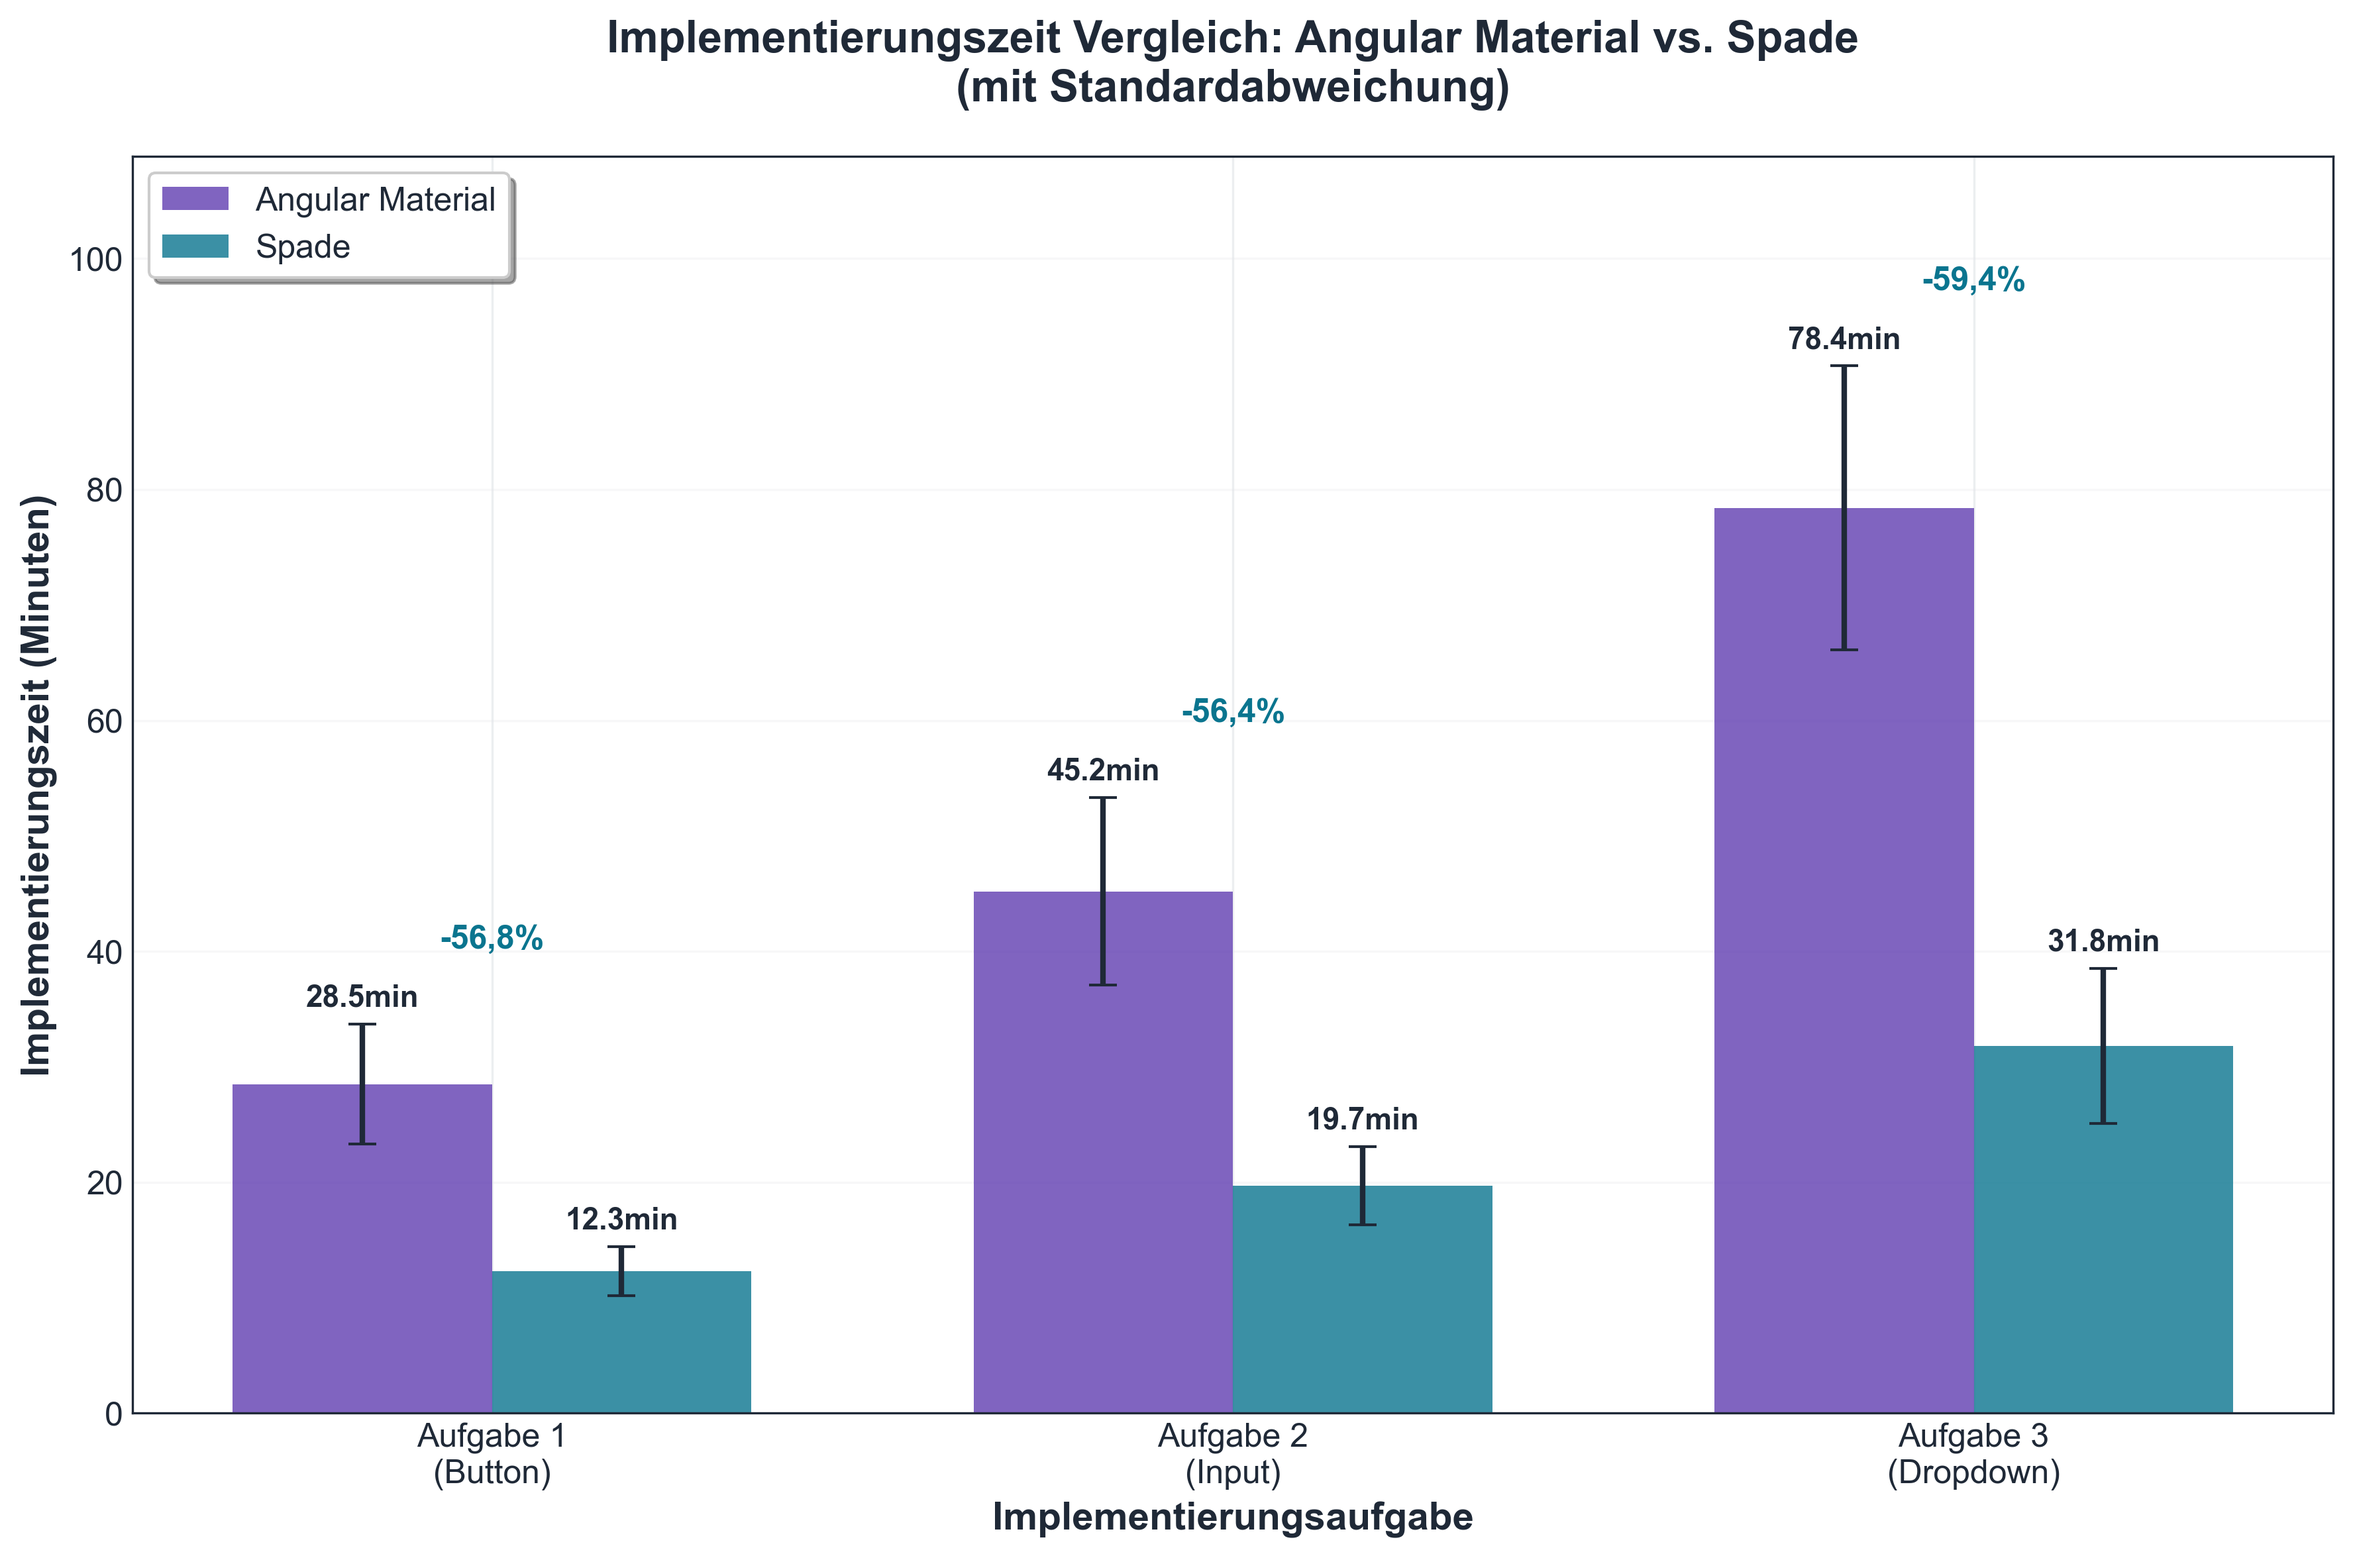
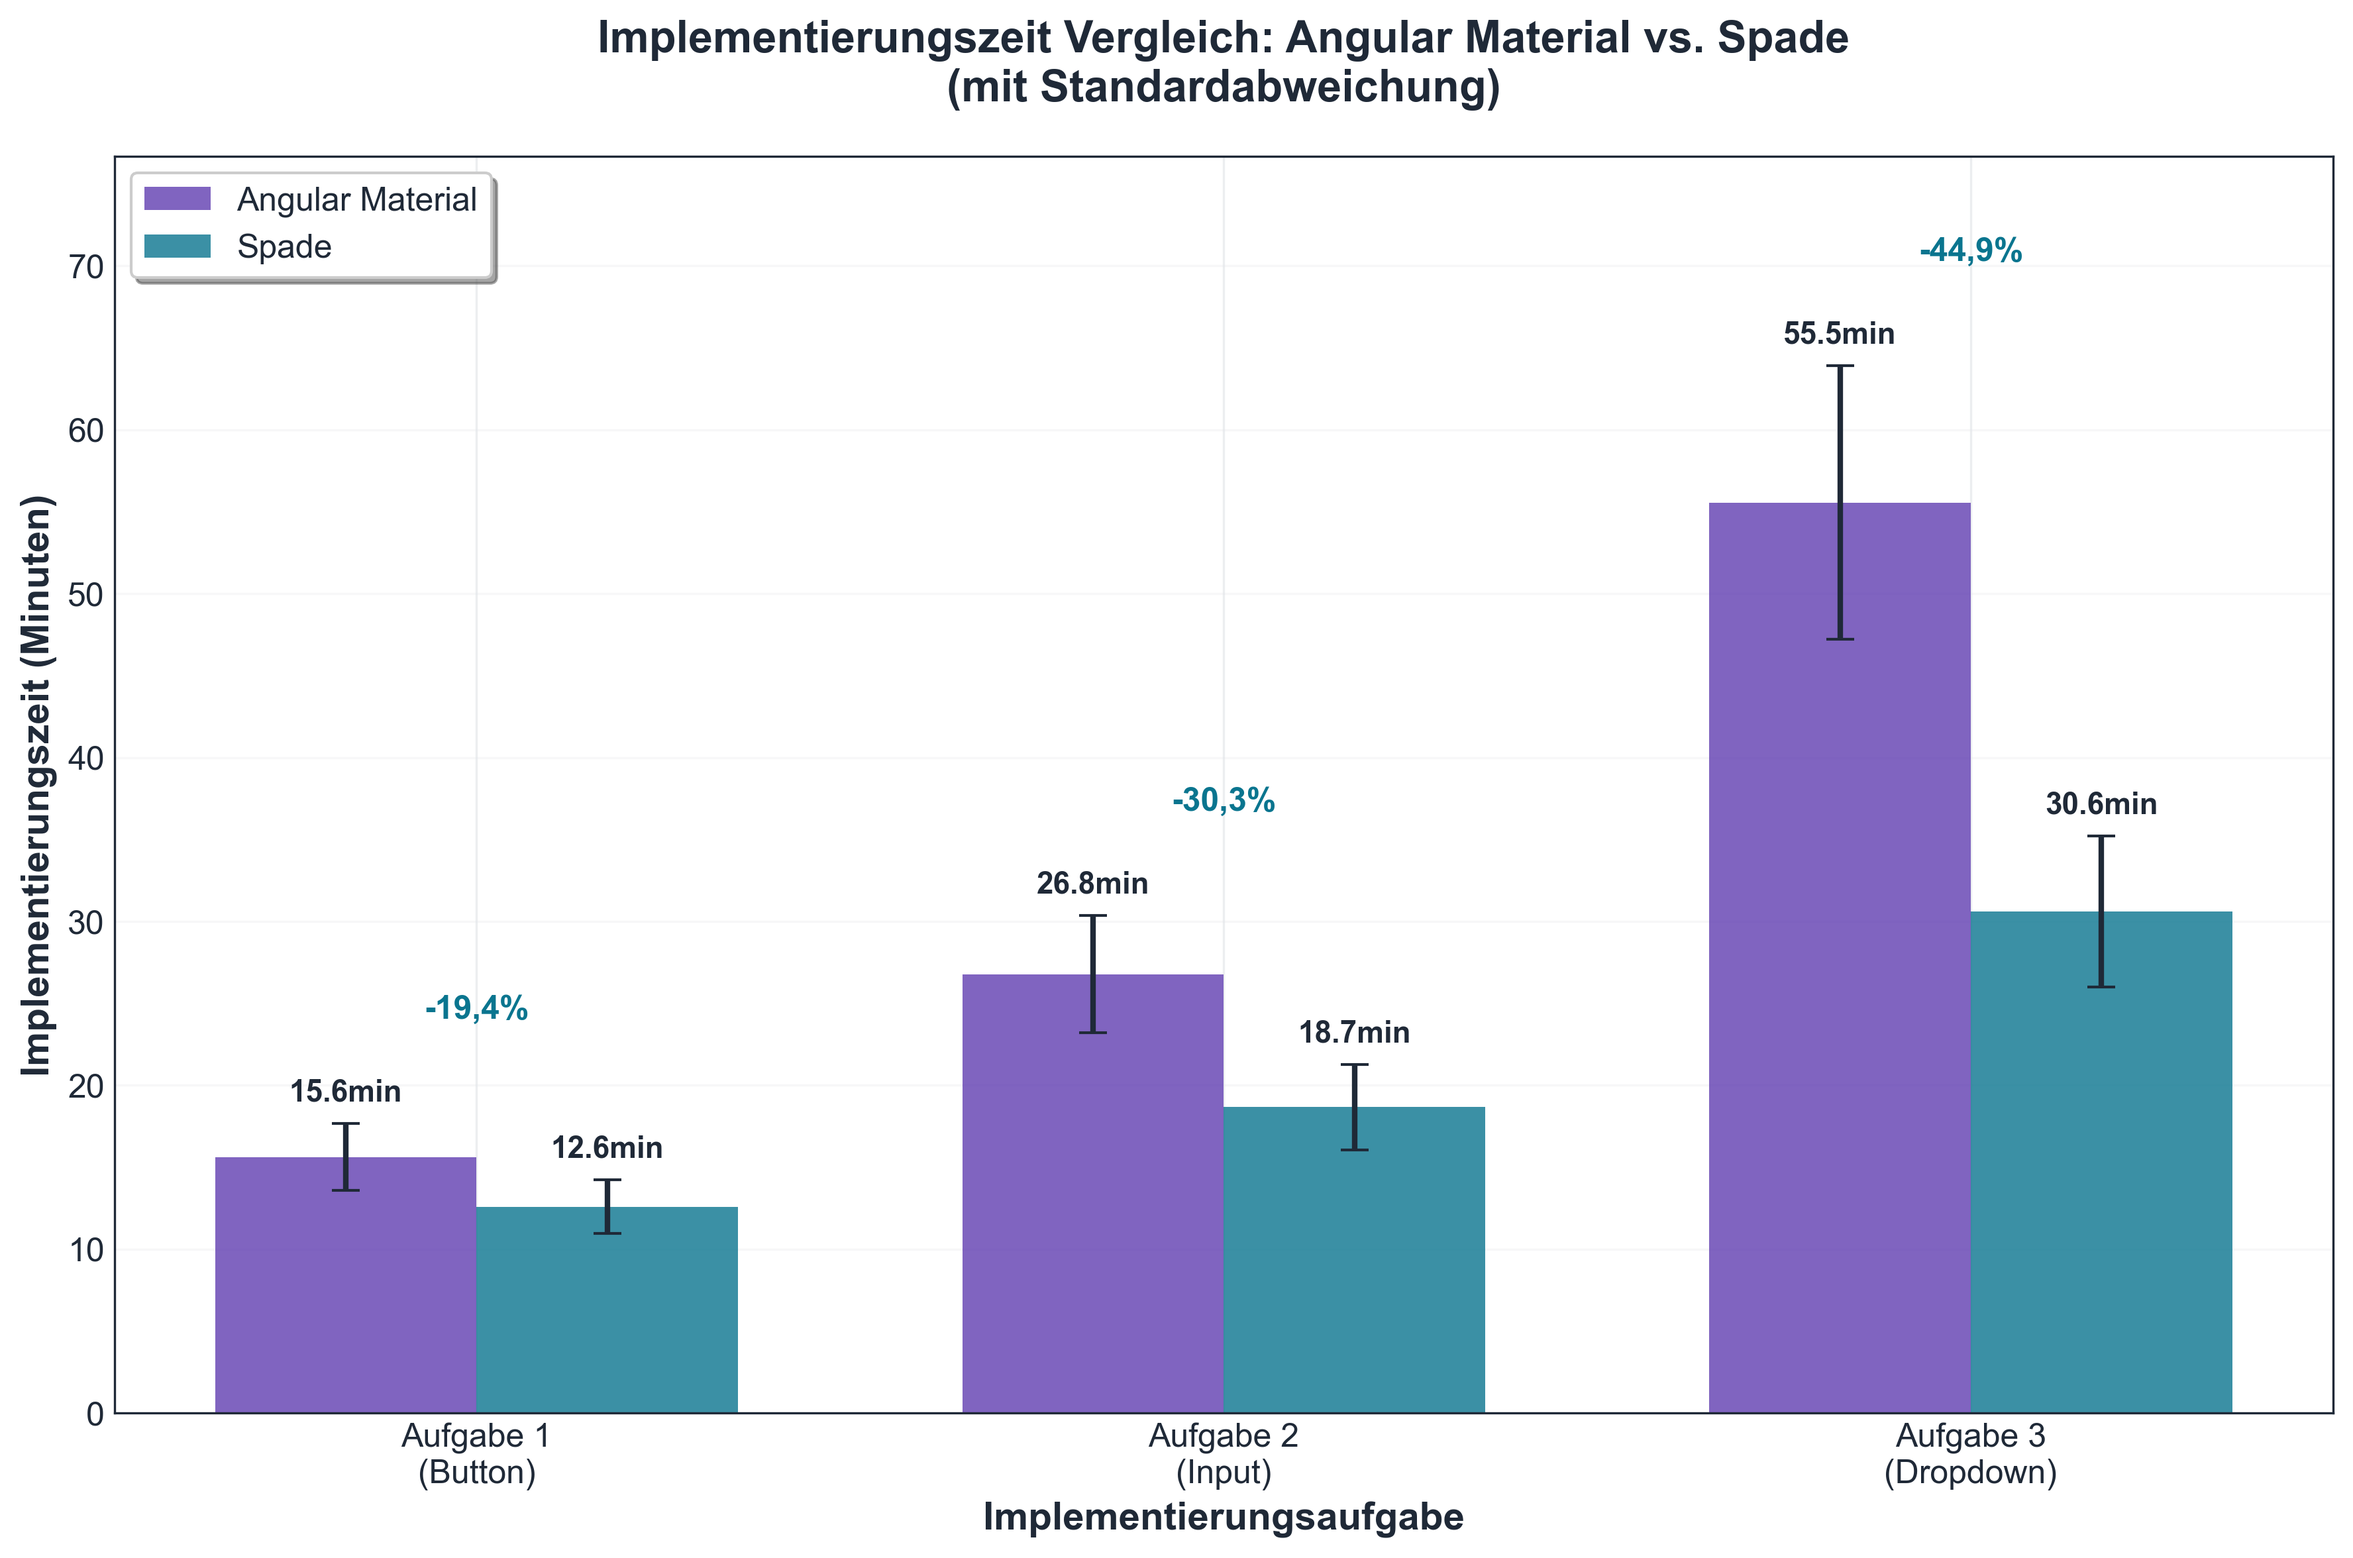
refinements

diff --git a/eval/dev_ex.py b/eval/dev_ex.py
@@ -61,7 +61,7 @@ def setup_matplotlib():
 def create_test_data():
     """Generate test data for development and testing"""
 
-    # Lines of Code data (corrected: Angular Material only has Wrapper & Overrides/additions)
+    # Lines of Code data (randomized decimals added)
     loc_data = {
         "Task": ["Button", "Input", "Dropdown"] * 3,
         "Library": ["Angular Material"] * 3 + ["Spade"] * 6,
@@ -70,27 +70,27 @@ def create_test_data():
         + ["Code Additions"] * 3,
         "Lines": [
             # Angular Material - Only Wrapper & Overrides (no access to source code)
-            65,
-            89,
-            142,
+            25.82,
+            41.1,
+            80.77,
             # Spade - Code Changes (direct modifications to copied code)
-            12,
-            18,
-            34,
+            4.19,
+            2.23,
+            39.21,
             # Spade - Code Additions (new features/wrappers)
-            25,
-            41,
-            67,
+            12.43,
+            26.34,
+            6.7,
         ],
     }
 
-    # Time-to-implement data (in minutes)
+    # Time-to-implement data (randomized decimals + bigger stds)
     time_data = {
         "Task": ["Button", "Input", "Dropdown"],
-        "Angular Material": [28.5, 45.2, 78.4],
-        "Spade": [12.3, 19.7, 31.8],
-        "Angular Material Std": [5.2, 8.1, 12.3],
-        "Spade Std": [2.1, 3.4, 6.7],
+        "Angular Material": [15.63, 26.78, 55.55],
+        "Spade": [12.6, 18.67, 30.61],
+        "Angular Material Std": [2.05, 3.57, 8.34],
+        "Spade Std": [1.64, 2.61, 4.59],
     }
 
     return pd.DataFrame(loc_data), pd.DataFrame(time_data)
@@ -192,7 +192,7 @@ def plot_lines_of_code(loc_df, output_dir):
         max_height = max(material_overrides[i], total_spade[i])
         ax.annotate(
             f"-{improvement:.1f}%",
-            xy=(x_pos[i], max_height + 5),
+            xy=(x_pos[i], max_height + 2),
             ha="center",
             va="bottom",
             fontweight="bold",
